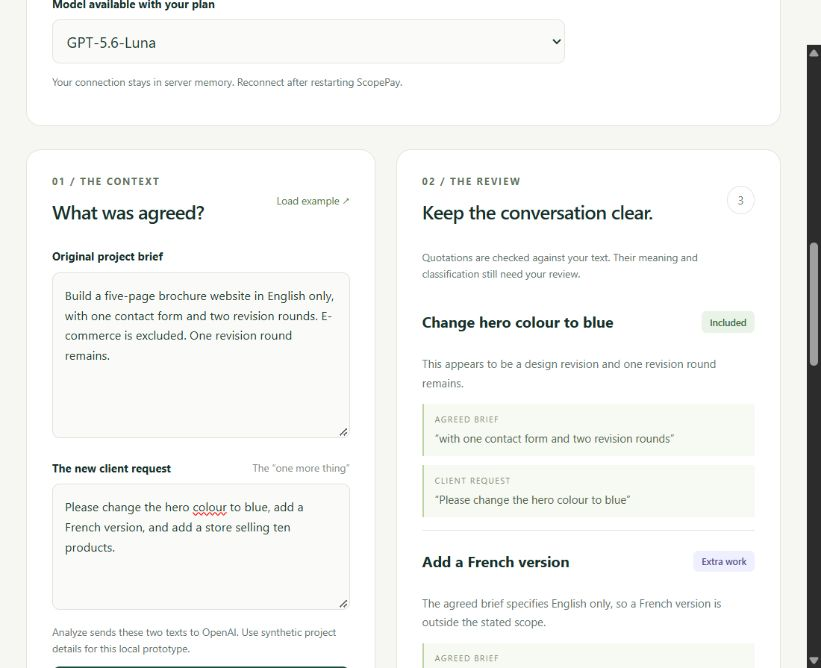
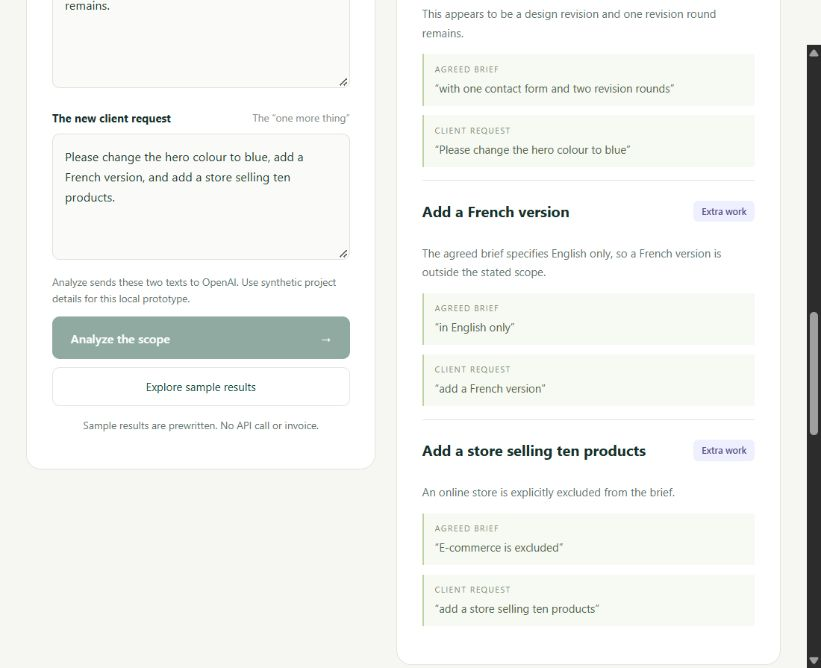
Prepare captioned demo draft and improve live evidence screenshot

diff --git a/submission/demo-script.md b/submission/demo-script.md
@@ -2,7 +2,7 @@
 
 Target duration: 2 minutes 40 seconds. Record the real running application with synthetic project content. Do not record credentials, personal account details, or browser tabs unrelated to this project.
 
-This is a script, not a completed video. Do not claim a successful AI call or PayPal payment until the corresponding real integration has been verified.
+This is a script, not the final submission video. Real ChatGPT-plan analysis has been verified. A local captioned screenshot draft covers the introduction, actual AI output, evidence, and synthetic $1 pricing. It is not yet uploaded. Complete the PayPal payment segment before recording or publishing the final demonstration; do not claim payment success without verification.
 
 | Time | Screen and action | Narration |
 |---|---|---|
